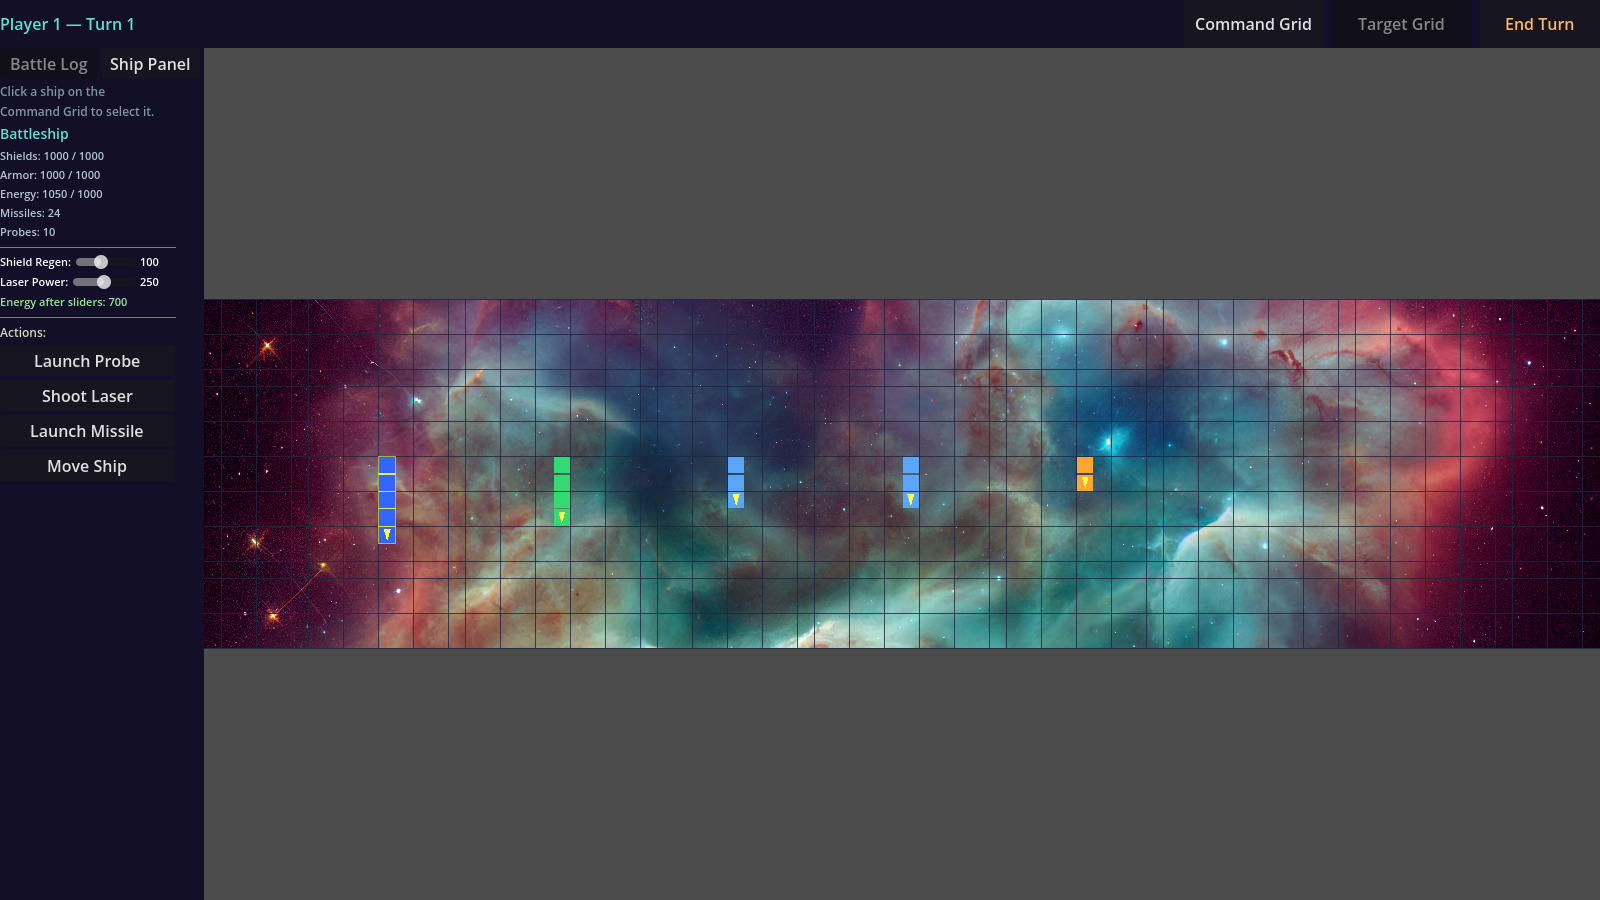
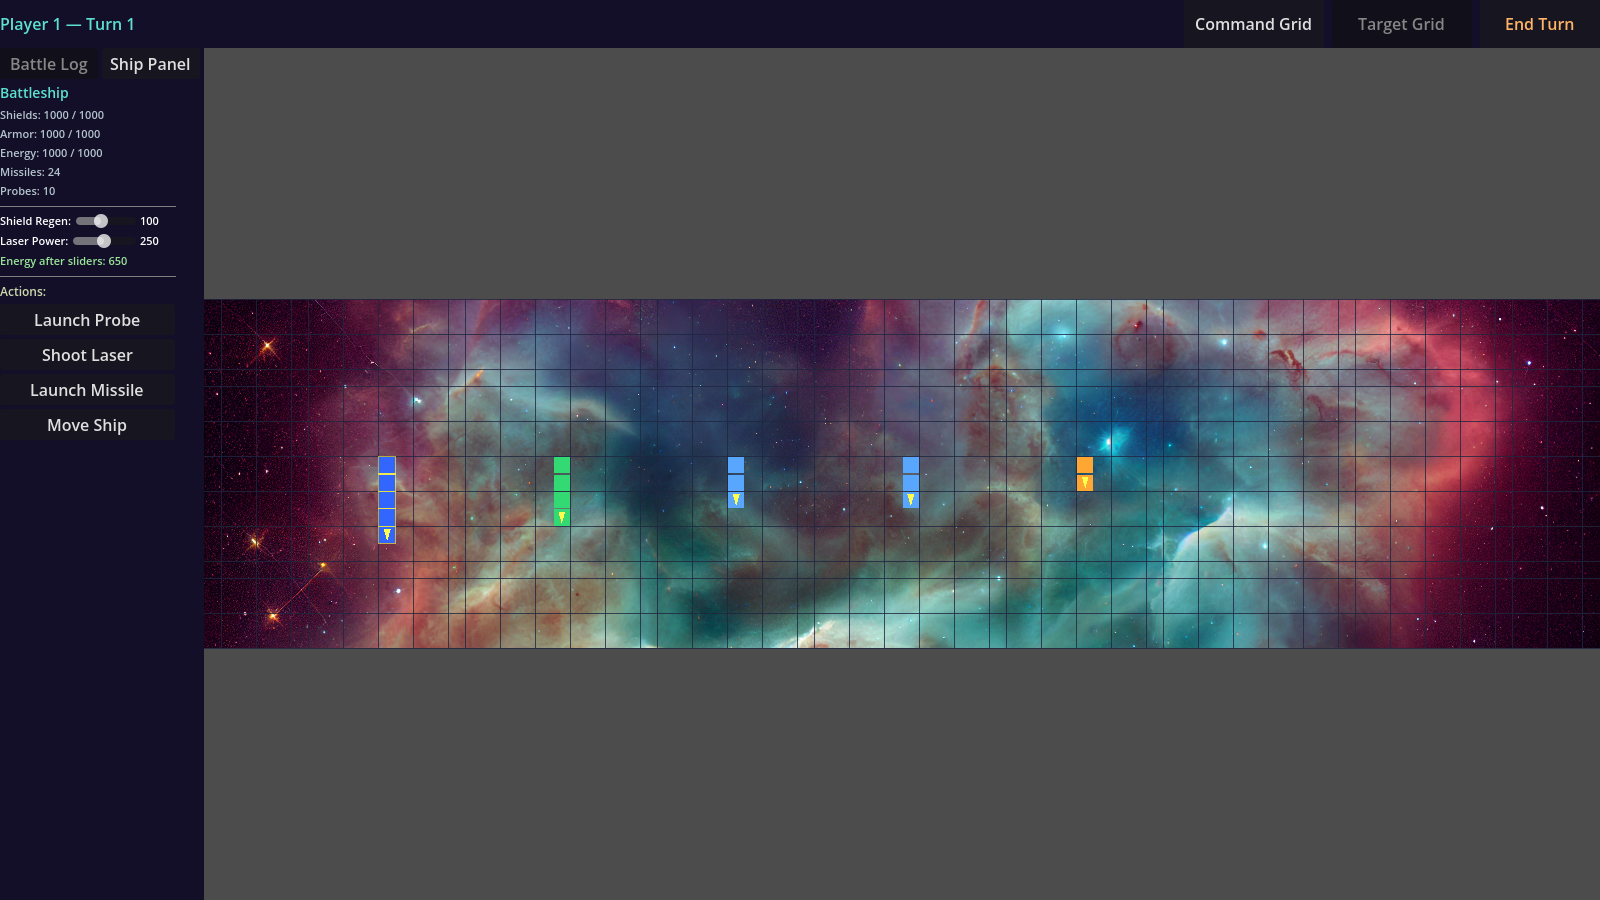
Complete step I4-4: Hide empty-state label when ship selected

Changed region(s): [[0.0, 0.0933, 0.0938, 0.5289]]

diff --git a/docs/checklist.md b/docs/checklist.md
@@ -269,7 +269,7 @@ Context: `project.godot` ships with no `[display]` section, so Godot's default 1
   Acceptance: On P1's very first turn (and P2's first turn), every ship's `energy` reads exactly its `max_energy` from ShipDefinitions — Battleship 1000, Probe Ship 1000, Destroyer 750, Destroyer 750, Cruiser 500. On subsequent turns, ships below max regen +50 but cap at max; ships already at max stay at max.
   Verify: Start a fresh game, place both fleets, reach the gameplay screen on P1's first turn. Click each of P1's five ships and read the energy value in the Ship Panel. Every value matches its documented max. End turn, hand off, check P2's ships on their first turn — same result.
 
-- [ ] **I4-4. Bug: empty-state label persists when a ship is selected**
+- [x] **I4-4. Bug: empty-state label persists when a ship is selected**
   Spec ref: `backlog.md > Bug: empty-state label persists when ship selected`
   What to build: In `scripts/ui/ship_panel.gd`, cache a reference to the sibling `ShipPanelEmpty` label (defined in `scenes/gameplay.tscn`) during `_build_ui()`. In `show_ship()` and `show_enemy_ship()`, set the empty-state label's `visible = false` alongside making `_container.visible = true`. In `clear_ship()`, invert: empty-state label visible, container hidden. Then remove the temporary workaround in `_shot_08a_ship_panel_tight()` in `scripts/debug/screenshot_runner.gd` that hides the label manually for that one shot, and re-run the screenshot script to confirm 08a still looks clean without it.
   Acceptance: No ship selected → only the "Click a ship on the Command Grid to select it." prompt is visible. Own ship selected → only the populated panel is visible. Enemy ship viewed via probe → only the populated panel. Click away to deselect → prompt returns, panel clears. Workaround lines removed from `_shot_08a_ship_panel_tight()`. Shot 08a regenerates without the workaround and still matches the brief.
